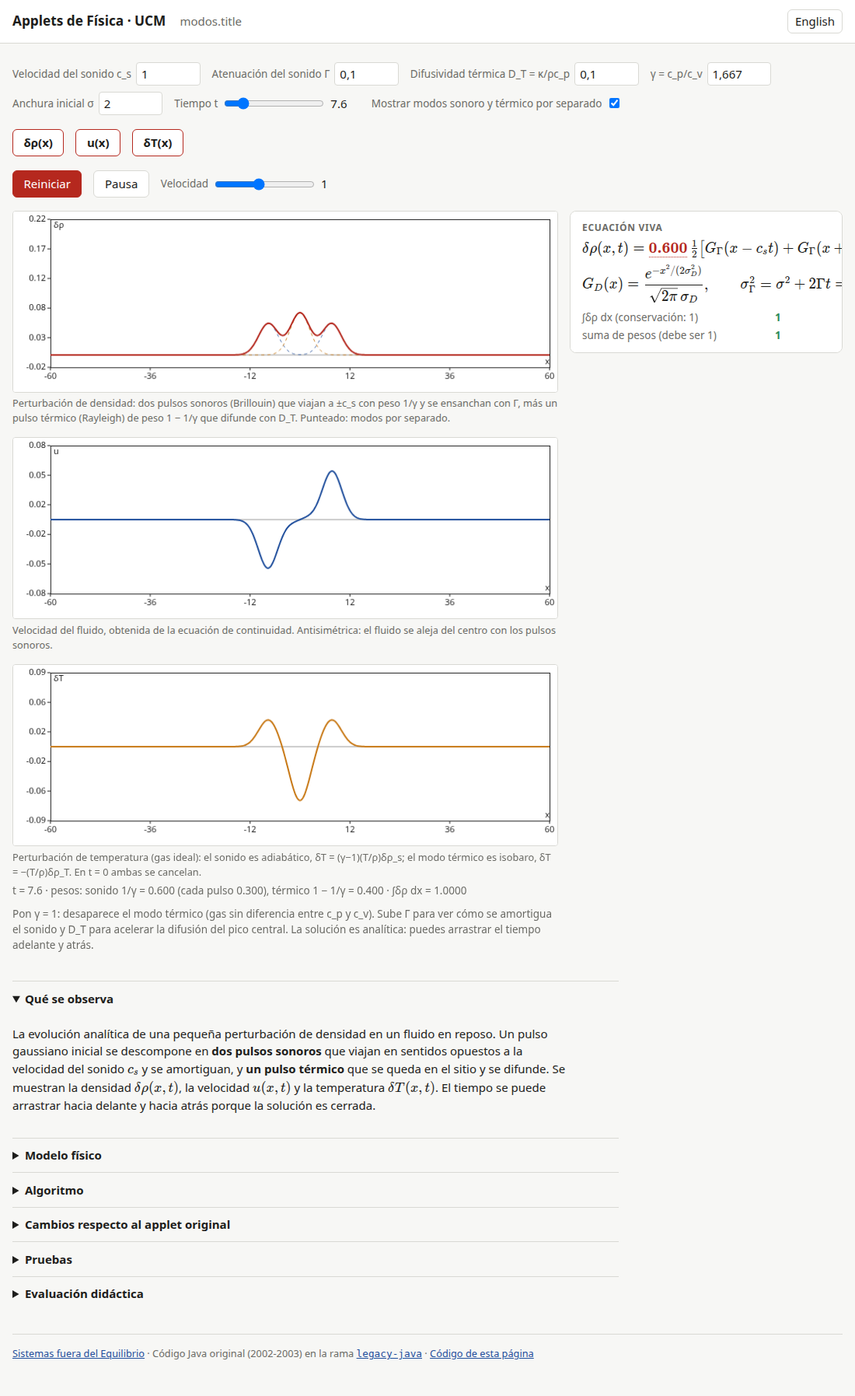
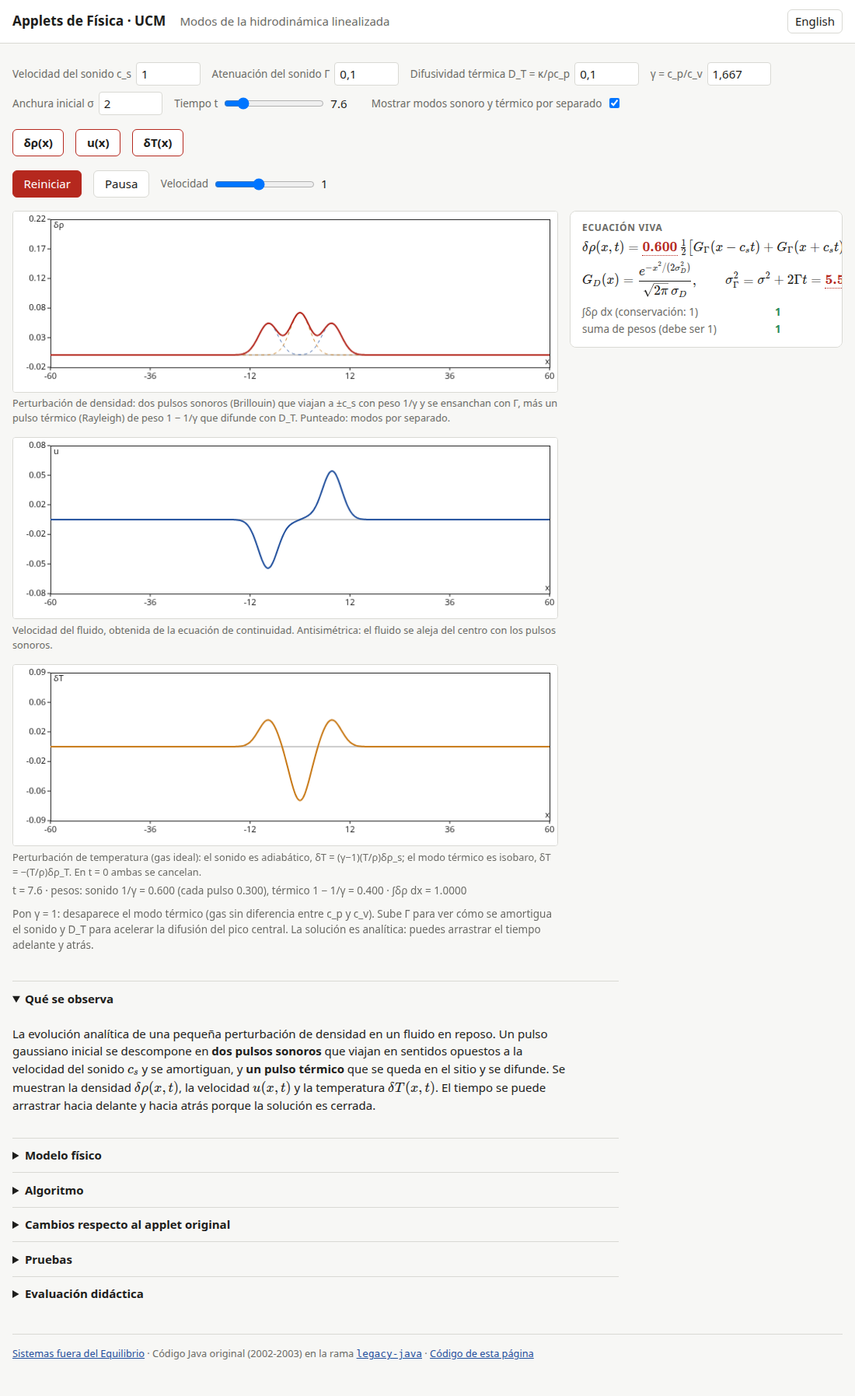
feat: ondas experiment combining FHP simulation (with linear acoustic prediction overlaid, Bessel-based Hankel integral) and linearized-hydrodynamics theory view

Changed region(s): [[0.68, 0.156, 0.9891, 0.2496], [0.2164, 0.0, 0.3709, 0.0312], [0.4018, 0.0, 0.4327, 0.0312]]

diff --git a/applets/onda-lgca/applet.js b/applets/onda-lgca/applet.js
@@ -14,7 +14,7 @@ i18n.register({
   es: {
     'onda.f': 'Densidad por canal f (0–1)', 'onda.radius': 'Radio del hueco', 'onda.size': 'Red (nodos por lado)',
     'onda.profile': 'Perfil', 'onda.profile.radial': 'Radial ⟨n⟩(r) desde el centro', 'onda.profile.strip': 'Franja horizontal ⟨n⟩(x)',
-    'onda.avg': 'Promediar el perfil en el tiempo',
+    'onda.avg': 'Promediar el perfil en el tiempo', 'onda.theory': 'Predicción lineal (acústica) superpuesta',
     'onda.smooth': 'Suavizado', 'onda.smooth.1': 'ninguno (nodo a nodo)', 'onda.smooth.2': 'cajas 2×2', 'onda.smooth.4': 'cajas 4×4',
     'onda.cap.lattice': 'Red hexagonal de {n}×{n} nodos; el gris indica la ocupación de cada nodo (0 a 7 partículas). El círculo rojo es el hueco inicial; el azul, la posición esperada del frente, r₀ + c_s t.',
     'onda.cap.profile': 'Ocupación media por nodo. La onda de rarefacción (mínimo) se aleja del centro a la velocidad del sonido de la red, c_s = √(3/7) ≈ 0.655 nodos/paso.',
@@ -22,11 +22,12 @@ i18n.register({
     'onda.hint': 'La red es periódica: pasado t ≈ L/(2c_s) la onda da la vuelta e interfiere consigo misma. Reinicia para repetir. La velocidad del sonido no depende de la densidad; compruébalo cambiando f.',
     'onda.eq.cs': 'velocidad del sonido de la red FHP con partícula en reposo', 'onda.eq.rf': 'posición teórica del frente', 'onda.eq.rmin': 'posición medida del mínimo del perfil radial',
     'onda.ind.err': 'error relativo del frente', 'onda.ind.rho': '⟨n⟩ (conservación: 7f)',
+    'onda.eq.nu': 'viscosidad cinemática FHP-III', 'onda.eq.Gamma': 'coeficiente de atenuación del sonido', 'onda.eq.cap.theory': 'Azul grueso: perfil radial predicho por la teoría lineal, δn(k,t) = δn(k,0) cos(c_s k t) e^{−Γk²t}, para el mismo hueco.',
   },
   en: {
     'onda.f': 'Density per channel f (0–1)', 'onda.radius': 'Hole radius', 'onda.size': 'Lattice (nodes per side)',
     'onda.profile': 'Profile', 'onda.profile.radial': 'Radial ⟨n⟩(r) from the centre', 'onda.profile.strip': 'Horizontal strip ⟨n⟩(x)',
-    'onda.avg': 'Time-average the profile',
+    'onda.avg': 'Time-average the profile', 'onda.theory': 'Overlay the linear (acoustic) prediction',
     'onda.smooth': 'Smoothing', 'onda.smooth.1': 'none (node by node)', 'onda.smooth.2': '2×2 boxes', 'onda.smooth.4': '4×4 boxes',
     'onda.cap.lattice': 'Hexagonal lattice of {n}×{n} nodes; grey level is the occupation of each node (0 to 7 particles). Red circle: initial hole; blue: expected front position r₀ + c_s t.',
     'onda.cap.profile': 'Mean occupation per node. The rarefaction wave (minimum) moves away from the centre at the lattice sound speed c_s = √(3/7) ≈ 0.655 nodes/step.',
@@ -34,11 +35,12 @@ i18n.register({
     'onda.hint': 'The lattice is periodic: after t ≈ L/(2c_s) the wave wraps around and interferes with itself. Restart to repeat. The sound speed does not depend on density; check it by changing f.',
     'onda.eq.cs': 'sound speed of the FHP lattice with a rest particle', 'onda.eq.rf': 'theoretical front position', 'onda.eq.rmin': 'measured position of the radial-profile minimum',
     'onda.ind.err': 'relative front error', 'onda.ind.rho': '⟨n⟩ (conservation: 7f)',
+    'onda.eq.nu': 'FHP-III kinematic viscosity', 'onda.eq.Gamma': 'sound attenuation coefficient', 'onda.eq.cap.theory': 'Thick blue: radial profile predicted by linear theory, δn(k,t) = δn(k,0) cos(c_s k t) e^{−Γk²t}, for the same hole.',
   },
 });
 
-export function mount(root, { root: base = '../..' } = {}) {
-  const ui = appletSkeleton(root, { canvases: [{ id: 'lattice', caption: 'onda.cap.lattice' }, { id: 'profile', caption: 'onda.cap.profile' }], hintKey: 'onda.hint' });
+export function mount(root, { root: base = '../..', embedded = false } = {}) {
+  const ui = appletSkeleton(root, { canvases: [{ id: 'lattice', caption: 'onda.cap.lattice' }, { id: 'profile', caption: 'onda.cap.profile' }], hintKey: 'onda.hint', theory: !embedded });
   let state, img, off, accR = null, accS = null, nAcc = 0;
   const pF = numberField({ label: 'onda.f', value: 0.5, min: 0.02, max: 0.98, step: 0.05 });
   const pR = numberField({ label: 'onda.radius', value: 12, min: 2, max: 60, integer: true });
@@ -46,7 +48,8 @@ export function mount(root, { root: base = '../..' } = {}) {
   const pProf = select({ label: 'onda.profile', value: 'radial', options: [{ value: 'radial', label: 'onda.profile.radial' }, { value: 'strip', label: 'onda.profile.strip' }], onChange: () => { nAcc = 0; draw(); } });
   const pSmooth = select({ label: 'onda.smooth', value: '2', options: [{ value: '1', label: 'onda.smooth.1' }, { value: '2', label: 'onda.smooth.2' }, { value: '4', label: 'onda.smooth.4' }], onChange: () => draw() });
   const pAvg = checkbox({ label: 'onda.avg', checked: false, onChange: () => { nAcc = 0; draw(); } });
-  ui.params.append(pSize.el, pF.el, pR.el, pSmooth.el, pProf.el, pAvg.el);
+  const pTheory = checkbox({ label: 'onda.theory', checked: true, onChange: () => draw() });
+  ui.params.append(pSize.el, pF.el, pR.el, pSmooth.el, pProf.el, pAvg.el, pTheory.el);
 
   const latticeCanvas = ui.canvas.lattice;
   const lat = new Plot(latticeCanvas, { xmin: 0, xmax: 200, ymin: 0, ymax: 200 * H.S3 });
@@ -57,6 +60,7 @@ export function mount(root, { root: base = '../..' } = {}) {
     equations: [
       { tex: 'c_s = \\sqrt{\\tfrac{3}{7}} = \\htmlId{cs}{c_s}\\ \\text{nodos/paso}', slots: { cs: { label: 'onda.eq.cs' } } },
       { tex: 'r_f(t) = r_0 + c_s t = \\htmlId{rf}{r_f},\\qquad r_{\\min}^{\\rm med} = \\htmlId{rmin}{r_{\\min}}', slots: { rf: { label: 'onda.eq.rf' }, rmin: { label: 'onda.eq.rmin' } } },
+      { tex: '\\delta n(k,t) = \\delta n(k,0)\\,\\cos(c_s k t)\\,e^{-\\htmlId{Gamma}{\\Gamma} k^2 t},\\qquad \\nu(f) = \\htmlId{nu}{\\nu}', slots: { Gamma: { label: 'onda.eq.Gamma' }, nu: { label: 'onda.eq.nu' } } },
     ],
     indicators: [{ key: 'err', label: 'onda.ind.err', fmt: (v) => (Number.isNaN(v) ? '—' : `${(100 * v).toFixed(1)} %`) }, { key: 'rho', label: 'onda.ind.rho' }],
   });
@@ -68,7 +72,8 @@ export function mount(root, { root: base = '../..' } = {}) {
     off = new OffscreenCanvas(n, n); img = off.getContext('2d').createImageData(n, n);
     accR = null; accS = null; nAcc = 0;
     const cap = root.querySelector('[data-i18n="onda.cap.lattice"]'); if (cap) cap.textContent = i18n.t('onda.cap.lattice', { n });
-    eq.update({ cs: O.SOUND_SPEED });
+    const tr = O.transportFHP(state.f);
+    eq.update({ cs: O.SOUND_SPEED, Gamma: tr.Gamma, nu: tr.nu });
   }
   function step() { O.step(state); }
 
@@ -123,6 +128,11 @@ export function mount(root, { root: base = '../..' } = {}) {
     const rf = state.holeRadius + O.SOUND_SPEED * state.t;
     if (radial) { prof.color('rgba(31,78,156,0.6)'); prof.line(rf, 0, rf, 7); }
     else { const c = state.cx; prof.color('rgba(31,78,156,0.6)'); for (const sgn of [-1, 1]) { const x = c + sgn * rf; prof.line(x, 0, x, 7); } }
+    if (radial && pTheory.get()) {
+      const rr = Float64Array.from({ length: 80 }, (_, i) => (i + 0.5) * xs[xs.length - 1] / 80);
+      const th = O.linearPrediction(state, rr, state.t);
+      prof.color('#1f4e9c'); prof.lineWidth(2.5); prof.polyline(Array.from(rr), Array.from(th, (v) => Math.max(0, Math.min(7, v)))); prof.lineWidth(1);
+    }
     prof.color('#b5281e'); prof.lineWidth(1.5);
     const vx = [], vy = []; for (let i = 0; i < xs.length; i++) if (!Number.isNaN(ys[i])) { vx.push(xs[i]); vy.push(ys[i]); }
     if (vx.length > 1) prof.polyline(vx, vy); prof.lineWidth(1);

diff --git a/applets/ondas/applet.js b/applets/ondas/applet.js
@@ -1,0 +1,40 @@
+// Sound waves in a fluid — experiment 4. Two views: the FHP lattice-gas
+// simulation (with the linear acoustic prediction overlaid) and the analytic
+// linearized-hydrodynamics modes of a real (thermal) fluid.
+import { i18n } from '../../lib/i18n.js';
+import { select } from '../../lib/ui.js';
+import { mountSections } from '../../lib/page.js';
+import * as Onda from '../onda-lgca/applet.js';
+import * as Modos from '../modos-lineales/applet.js';
+
+export const meta = { slug: 'ondas', titleKey: 'ondas.title', legacyPath: 'PERFILDENSIDAD/EJERC23.JAVA', number: 4 };
+
+i18n.register({
+  es: {
+    'ondas.view': 'Vista', 'ondas.view.fhp': 'A · Simulación: gas reticular FHP', 'ondas.view.lineal': 'B · Teoría: modos de la hidrodinámica linealizada',
+    'ondas.intro.fhp': 'Un hueco de densidad en un gas reticular emite una onda sonora cilíndrica. Sobre el perfil radial medido (rojo) se dibuja la predicción de la teoría lineal (azul) con la velocidad del sonido y la atenuación del propio modelo FHP.',
+    'ondas.intro.lineal': 'En un fluido real la perturbación se reparte entre dos modos sonoros (Brillouin), que viajan a ±c_s, y un modo térmico (Rayleigh) que difunde sin propagarse. El gas reticular FHP es atérmico: solo tiene los modos sonoros.',
+  },
+  en: {
+    'ondas.view': 'View', 'ondas.view.fhp': 'A · Simulation: FHP lattice gas', 'ondas.view.lineal': 'B · Theory: linearized hydrodynamics modes',
+    'ondas.intro.fhp': 'A density hole in a lattice gas emits a cylindrical sound wave. The linear-theory prediction (blue), with the sound speed and attenuation of the FHP model itself, is drawn over the measured radial profile (red).',
+    'ondas.intro.lineal': 'In a real fluid the perturbation splits into two sound (Brillouin) modes travelling at ±c_s and a thermal (Rayleigh) mode that diffuses without propagating. The FHP lattice gas is athermal: it only has the sound modes.',
+  },
+});
+
+export function mount(root, { root: base = '../..' } = {}) {
+  root.innerHTML = '<div class="params view-select"></div><p class="hint view-intro"></p><div class="view-host"></div><div class="theory-sections"></div>';
+  const host = root.querySelector('.view-host'), intro = root.querySelector('.view-intro');
+  const pView = select({ label: 'ondas.view', value: 'fhp', options: ['fhp', 'lineal'].map((v) => ({ value: v, label: `ondas.view.${v}` })), onChange: (v) => show(v) });
+  root.querySelector('.view-select').append(pView.el);
+  let handle = null;
+  function show(v) {
+    handle?.destroy?.(); host.replaceChildren();
+    intro.textContent = i18n.t(`ondas.intro.${v}`);
+    handle = (v === 'fhp' ? Onda : Modos).mount(host, { root: base, embedded: true });
+    i18n.apply(host); window.dispatchEvent(new Event('resize'));
+  }
+  show('fhp');
+  mountSections(root.querySelector('.theory-sections'), meta.slug, base);
+  return { get loop() { return handle?.loop; }, destroy() { handle?.destroy?.(); root.replaceChildren(); } };
+}

diff --git a/tests/ondas.test.js b/tests/ondas.test.js
@@ -1,0 +1,40 @@
+import { test } from 'node:test';
+import assert from 'node:assert/strict';
+import { mulberry32 } from '../lib/rng.js';
+import { besselJ0, besselJ1 } from '../lib/bessel.js';
+import * as O from '../applets/onda-lgca/model.js';
+
+test('Bessel J0, J1 against tabulated values', () => {
+  assert.ok(Math.abs(besselJ0(0) - 1) < 1e-8);
+  assert.ok(Math.abs(besselJ0(2.404825557695773)) < 1e-7, 'first zero of J0');
+  assert.ok(Math.abs(besselJ1(1) - 0.4400505857) < 1e-7);
+  assert.ok(Math.abs(besselJ0(10) - (-0.2459357645)) < 1e-7);
+  assert.ok(Math.abs(besselJ1(10) - 0.0434727462) < 1e-7);
+});
+
+test('linear prediction reproduces the hole at t = 0 and a front moving at c_s', () => {
+  const s = O.create({ nx: 120, ny: 120, f: 0.3, holeRadius: 10, rng: mulberry32(1) });
+  const r = Float64Array.from({ length: 60 }, (_, i) => i + 0.5);
+  const p0 = O.linearPrediction(s, r, 0);
+  const n0 = 7 * s.f;
+  assert.ok(Math.abs(p0[4]) < 0.15 * n0, `inside the hole ≈ 0: ${p0[4]}`);            // r = 4.5
+  assert.ok(Math.abs(p0[30] - n0) < 0.1 * n0, `far outside ≈ n0: ${p0[30]}`);         // r = 30.5
+  const tA = 15, tB = 30;
+  const rA = O.profileMinimum(r, O.linearPrediction(s, r, tA), 6), rB = O.profileMinimum(r, O.linearPrediction(s, r, tB), 6);
+  const speed = (rB - rA) / (tB - tA);
+  assert.ok(Math.abs(speed - O.SOUND_SPEED) < 0.15, `front speed ${speed} vs ${O.SOUND_SPEED}`);
+});
+
+test('simulated front advances at the sound speed within 15 %', () => {
+  const s = O.create({ nx: 160, ny: 160, f: 0.3, holeRadius: 10, rng: mulberry32(2) });
+  const pos = [];
+  for (let t = 0; t <= 60; t++) {
+    if (t >= 20 && t % 10 === 0) pos.push([t, O.frontRadius(O.radialProfile(s, 1.5), 6)]);
+    O.step(s);
+  }
+  // least-squares slope
+  const n = pos.length; let sx = 0, sy = 0, sxx = 0, sxy = 0;
+  for (const [x, y] of pos) { sx += x; sy += y; sxx += x * x; sxy += x * y; }
+  const slope = (n * sxy - sx * sy) / (n * sxx - sx * sx);
+  assert.ok(Math.abs(slope / O.SOUND_SPEED - 1) < 0.15, `slope ${slope} (c_s ${O.SOUND_SPEED}) from ${JSON.stringify(pos)}`);
+});

diff --git a/applets/onda-lgca/model.js b/applets/onda-lgca/model.js
@@ -2,6 +2,7 @@
 // density) is carved in a uniform gas; the rarefaction front propagates
 // outward at the lattice sound speed c_s = sqrt(3/7).
 import * as H from '../_fhp/fhp.js';
+import { besselJ0, besselJ1 } from '../../lib/bessel.js';
 
 export function create({ nx = 200, ny = 200, f = 0.7, holeRadius = 12, rng = Math.random } = {}) {
   const L = H.createLattice(nx, ny);
@@ -56,3 +57,33 @@ export function frontRadius(profile, rmin = 1) {
 }
 
 export const SOUND_SPEED = H.SOUND_SPEED;
+
+export const transportFHP = H.transportFHP;
+
+// Linear (acoustic) prediction for the cylindrical hole. The initial perturbation
+// δn(r,0) = −n0 for r < R has Hankel transform F(k) = −n0·2πR J1(kR)/k; each mode
+// oscillates as cos(c_s k t) and damps as exp(−Γ k² t), so
+//   δn(r,t) = −n0 R ∫₀^∞ J1(kR) J0(kr) cos(c_s k t) e^{−Γ k² t} dk.
+// Returns the predicted occupation n0 + δn on the radii `r` (n0 = 7f). Linear theory
+// of an O(1) perturbation: shape and front position are meaningful, amplitude only roughly.
+export function linearPrediction(s, r, t, { Gamma = transportFHP(s.f).Gamma, cs = SOUND_SPEED, nk = 600 } = {}) {
+  const R = s.holeRadius, n0 = 7 * s.f;
+  const kmax = 40 / R, dk = kmax / nk;
+  const G = Math.max(Gamma, 0.02); // small floor smooths the truncation ripple at t = 0
+  const out = new Float64Array(r.length);
+  const w = new Float64Array(nk + 1);
+  for (let j = 0; j <= nk; j++) { const k = j * dk; w[j] = (j === 0 || j === nk ? 0.5 : 1) * dk * besselJ1(k * R) * Math.cos(cs * k * t) * Math.exp(-G * k * k * t); }
+  for (let i = 0; i < r.length; i++) {
+    let acc = 0;
+    for (let j = 1; j <= nk; j++) acc += w[j] * besselJ0(j * dk * r[i]);
+    out[i] = n0 - n0 * R * acc;
+  }
+  return out;
+}
+
+// Position of the minimum of a predicted/measured profile beyond rmin.
+export function profileMinimum(r, rho, rmin = 1) {
+  let best = -1, bv = Infinity;
+  for (let i = 0; i < r.length; i++) if (r[i] >= rmin && !Number.isNaN(rho[i]) && rho[i] < bv) { bv = rho[i]; best = i; }
+  return best < 0 ? NaN : r[best];
+}

diff --git a/lib/registry.js b/lib/registry.js
@@ -11,19 +11,18 @@ export const REGISTRY = [
     title: { es: 'Irreversibilidad y fluctuaciones en equilibrio', en: 'Irreversibility and fluctuations in equilibrium' } },
   { slug: 'conductividad', number: 3, titleKey: 'cond.title', path: 'applets/conductividad/applet.js',
     title: { es: 'Conductividad térmica', en: 'Thermal conductivity' } },
-  { slug: 'onda-lgca', number: 4, titleKey: 'onda.title', path: 'applets/onda-lgca/applet.js',
+  { slug: 'ondas', number: 4, titleKey: 'ondas.title', path: 'applets/ondas/applet.js',
     title: { es: 'Ondas sonoras en un fluido', en: 'Sound waves in a fluid' } },
   { slug: 'maxwell', extra: true, titleKey: 'maxwell.title', path: 'applets/maxwell/applet.js',
     title: { es: 'Discos duros y distribución de Maxwell', en: 'Hard disks and the Maxwell distribution' } },
   { slug: 'pila-arena', extra: true, titleKey: 'pila.title', path: 'applets/pila-arena/applet.js',
     title: { es: 'Pila de arena y criticalidad autoorganizada', en: 'Sandpile and self-organized criticality' } },
-  { slug: 'modos-lineales', extra: true, titleKey: 'modos.title', path: 'applets/modos-lineales/applet.js',
-    title: { es: 'Modos de la hidrodinámica linealizada', en: 'Linearized hydrodynamics modes' } },
   { slug: 'von-karman', extra: true, titleKey: 'vk.title', path: 'applets/von-karman/applet.js',
     title: { es: 'Gas reticular con obstáculo: calle de Von Kármán', en: 'Lattice gas with an obstacle: Von Kármán street' } },
 ];
 
-const es = {}, en = {};
+const es = { 'onda.title': 'Gas reticular FHP: onda sonora y perfil de densidad', 'modos.title': 'Modos de la hidrodinámica linealizada' };
+const en = { 'onda.title': 'FHP lattice gas: sound wave and density profile', 'modos.title': 'Linearized hydrodynamics modes' };
 for (const r of REGISTRY) { es[r.titleKey] = r.title.es; en[r.titleKey] = r.title.en; }
 i18n.register({ es, en });
 

diff --git a/lib/bessel.js b/lib/bessel.js
@@ -1,0 +1,28 @@
+// Bessel functions J0, J1 (Numerical Recipes rational approximations, |err| < 1e-8).
+export function besselJ0(x) {
+  const ax = Math.abs(x);
+  if (ax < 8) {
+    const y = x * x;
+    const a = 57568490574.0 + y * (-13362590354.0 + y * (651619640.7 + y * (-11214424.18 + y * (77392.33017 + y * (-184.9052456)))));
+    const b = 57568490411.0 + y * (1029532985.0 + y * (9494680.718 + y * (59272.64853 + y * (267.8532712 + y))));
+    return a / b;
+  }
+  const z = 8 / ax, y = z * z, xx = ax - 0.785398164;
+  const a = 1 + y * (-0.1098628627e-2 + y * (0.2734510407e-4 + y * (-0.2073370639e-5 + y * 0.2093887211e-6)));
+  const b = -0.1562499995e-1 + y * (0.1430488765e-3 + y * (-0.6911147651e-5 + y * (0.7621095161e-6 - y * 0.934935152e-7)));
+  return Math.sqrt(0.636619772 / ax) * (Math.cos(xx) * a - z * Math.sin(xx) * b);
+}
+export function besselJ1(x) {
+  const ax = Math.abs(x);
+  if (ax < 8) {
+    const y = x * x;
+    const a = x * (72362614232.0 + y * (-7895059235.0 + y * (242396853.1 + y * (-2972611.439 + y * (15704.48260 + y * (-30.16036606))))));
+    const b = 144725228442.0 + y * (2300535178.0 + y * (18583304.74 + y * (99447.43394 + y * (376.9991397 + y))));
+    return a / b;
+  }
+  const z = 8 / ax, y = z * z, xx = ax - 2.356194491;
+  const a = 1 + y * (0.183105e-2 + y * (-0.3516396496e-4 + y * (0.2457520174e-5 + y * (-0.240337019e-6))));
+  const b = 0.04687499995 + y * (-0.2002690873e-3 + y * (0.8449199096e-5 + y * (-0.88228987e-6 + y * 0.105787412e-6)));
+  const ans = Math.sqrt(0.636619772 / ax) * (Math.cos(xx) * a - z * Math.sin(xx) * b);
+  return x < 0 ? -ans : ans;
+}

diff --git a/applets/_fhp/fhp.js b/applets/_fhp/fhp.js
@@ -134,3 +134,15 @@ export function diskMask(L, cx, cy, r) {
 
 // Sound speed of the 7-state model in lattice units per step: c_s² = (6/7)(1/2).
 export const SOUND_SPEED = Math.sqrt(3 / 7);
+
+// Transport coefficients of the FHP-III model (rest particle, all collisions),
+// in lattice units (Frisch et al. 1987; Grosfils, Boon, Brito, Ernst 1993).
+// f: mean occupation per channel. g(f): non-Galilean factor multiplying the
+// advective term; nu(f): kinematic shear viscosity (Boltzmann approximation,
+// including the propagation correction -1/8).
+export function galileanFactor(f) { return (7 / 12) * (1 - 2 * f) / (1 - f); }
+export function viscosityFHP3(f) { return (1 / 28) / (f * (1 - f) ** 3 * (1 - 8 * f * (1 - f) / 7)) - 1 / 8; }
+// Sound attenuation coefficient for an athermal 2D lattice gas: Gamma = (nu + zeta)/2 with the
+// bulk viscosity zeta of FHP-III approximated by nu (the exact value is of the same order).
+export function soundAttenuation(f) { return viscosityFHP3(f); }
+export function transportFHP(f) { return { cs: SOUND_SPEED, nu: viscosityFHP3(f), Gamma: soundAttenuation(f), g: galileanFactor(f) }; }

diff --git a/applets/modos-lineales/applet.js b/applets/modos-lineales/applet.js
@@ -36,10 +36,10 @@ i18n.register({
 
 const XMAX = 60, NX = 601, TMAX = 50;
 
-export function mount(root, { root: base = '../..' } = {}) {
+export function mount(root, { root: base = '../..', embedded = false } = {}) {
   const ui = appletSkeleton(root, {
     canvases: [{ id: 'rho', caption: 'modos.cap.rho', cls: 'wide' }, { id: 'u', caption: 'modos.cap.u', cls: 'wide' }, { id: 'T', caption: 'modos.cap.T', cls: 'wide' }],
-    hintKey: 'modos.hint',
+    hintKey: 'modos.hint', theory: !embedded,
   });
   root.querySelector('.canvases').classList.add('stack');
   const xs = M.linspace(-XMAX, XMAX, NX);

diff --git a/applets/von-karman/model.js b/applets/von-karman/model.js
@@ -83,6 +83,6 @@ export function meanAlongVelocity(s, iy0, iy1) {
 }
 
 // Reference transport coefficients of 7-bit FHP models (Frisch et al. 1987), d = f.
-export function galileanFactor(f) { return (7 / 12) * (1 - 2 * f) / (1 - f); }
-export function viscosityFHP3(f) { return (1 / 28) / (f * (1 - f) ** 3 * (1 - 8 * f * (1 - f) / 7)) - 1 / 8; }
+export const galileanFactor = H.galileanFactor;
+export const viscosityFHP3 = H.viscosityFHP3;
 export function reynolds(s) { const nu = viscosityFHP3(s.f); return nu > 0 ? galileanFactor(s.f) * s.u * s.plateLen / nu : NaN; }

diff --git a/applets/ondas/index.html b/applets/ondas/index.html
@@ -1,0 +1,18 @@
+<!doctype html>
+<html lang="es">
+<head>
+<meta charset="utf-8">
+<meta name="viewport" content="width=device-width, initial-scale=1">
+<title>Ondas sonoras en un fluido</title>
+<link rel="stylesheet" href="../../assets/style.css">
+<link rel="icon" href="data:,">
+</head>
+<body>
+<header class="site"></header>
+<main>
+  <div id="app" class="applet"></div>
+  <footer class="site"></footer>
+</main>
+<script type="module" src="./view.js"></script>
+</body>
+</html>

diff --git a/applets/ondas/view.js b/applets/ondas/view.js
@@ -1,0 +1,7 @@
+// Standalone page: header/footer chrome plus the mountable applet.
+import { setupPage } from '../../lib/page.js';
+import '../../lib/registry.js'; // registers titles
+import { mount, meta } from './applet.js';
+
+setupPage({ slug: meta.slug, titleKey: meta.titleKey, legacyPath: meta.legacyPath, bare: true });
+mount(document.getElementById('app'), { root: '../..' });

diff --git a/docs/es/ondas.md b/docs/es/ondas.md
@@ -1,0 +1,40 @@
+# Ondas sonoras en un fluido
+
+## Qué se observa
+
+Dos vistas. **A**: un gas reticular FHP con un hueco circular de densidad en el centro. La materia de alrededor se precipita hacia el hueco, lo sobrepasa y crea una corona de rarefacción que se aleja a la velocidad del sonido de la red, $c_s = \sqrt{3/7} \approx 0.655$ nodos por paso. Sobre el perfil radial medido se dibuja la predicción de la teoría acústica lineal para ese mismo hueco. **B**: la solución analítica de la hidrodinámica linealizada para una perturbación de densidad en un fluido real, con sus dos pulsos sonoros y su pico térmico. Esta es la física de las fichas `onda-lgca` y `modos-lineales`, reunida en el experimento 4 del curso original.
+
+## Modelo físico
+
+Linealizando las ecuaciones de Navier–Stokes alrededor del reposo y pasando a Fourier, la densidad obedece
+
+$$n(k,t) = \Big[\tfrac{c_v}{c_p}\cos(c_s k t)\,e^{-\Gamma_s k^2 t} + \tfrac{c_p - c_v}{c_p}\,e^{-\kappa k^2 t/(n c_p)}\Big]\,n(k,0),$$
+
+dos modos sonoros amortiguados (peso $1/\gamma$) y un modo térmico difusivo (peso $1 - 1/\gamma$). Son los pesos de Landau–Placzek. En la vista B se recorren en el espacio real: $\delta\rho$, la velocidad $u$ (por continuidad) y $\delta T$, que en $t = 0$ se anula porque el sonido es adiabático y el modo térmico isobaro.
+
+El gas reticular FHP conserva masa y momento pero no tiene energía independiente (todas las partículas móviles tienen la misma velocidad): es **atérmico**. No hay modo térmico, $c_p = c_v$, y la ecuación anterior se reduce a $n(k,t) = \cos(c_s k t)\,e^{-\Gamma k^2 t}\,n(k,0)$. Para el hueco de radio $R$ en un gas de ocupación $n_0 = 7f$, la transformada de Hankel de la condición inicial es $-n_0\,2\pi R\,J_1(kR)/k$ y
+
+$$\delta n(r,t) = -n_0 R \int_0^\infty J_1(kR)\,J_0(kr)\,\cos(c_s k t)\,e^{-\Gamma k^2 t}\,dk,$$
+
+que es la curva azul. La velocidad del sonido del FHP-III es exacta, $c_s^2 = 3/7$; la atenuación $\Gamma$ se toma igual a la viscosidad cinemática $\nu(f)$ de Boltzmann, que es su orden de magnitud correcto (la viscosidad de volumen del modelo con partícula en reposo es comparable a $\nu$). El hueco es una perturbación del 100 %, así que la teoría lineal acierta la posición y la forma del frente pero solo aproxima su amplitud; la discrepancia es una medida del efecto no lineal.
+
+## Algoritmo
+
+Vista A: `applets/onda-lgca` (autómata FHP con partícula en reposo, perfil radial por anillos, frente como mínimo del perfil). La predicción lineal se integra numéricamente en $k$ con funciones de Bessel racionales (`lib/bessel.js`), 600 nodos hasta $k_{\max} = 40/R$. Vista B: `applets/modos-lineales` (solución analítica, gaussianas de varianza $\sigma^2 + 2\Gamma t$ y $\sigma^2 + 2 D_T t$).
+
+## Cambios respecto al applet original
+
+| Original (`ejerc2`/`ejerc23`, 2003) | Aquí | Motivo |
+|---|---|---|
+| Densidad en un "cuadradito rojo" fijo frente al tiempo | Perfil radial completo y posición del frente frente a $c_s t$ | La magnitud que la teoría predice es el perfil |
+| Sin comparación cuantitativa con la ecuación (1) del curso | Predicción lineal superpuesta, $c_s$, $\nu$ y $\Gamma$ en el panel | Ver la ecuación y la simulación a la vez |
+| Teoría con modo térmico aplicada a un modelo atérmico | Se explica la diferencia y la vista B muestra el modo térmico donde sí existe | Coherencia física |
+| Hueco elíptico (condición $\tfrac32(i_y - y_c)^2$) | Disco en coordenadas físicas | Corrección de la fase 1 |
+
+## Pruebas
+
+`tests/ondas.test.js`: $J_0$, $J_1$ frente a valores tabulados; la predicción lineal reproduce el hueco en $t = 0$ y su mínimo avanza a $c_s$ entre $t = 15$ y $t = 30$; el frente medido en la simulación ($N = 160^2$, $f = 0.3$) avanza a $c_s$ dentro del 15 %. Además `tests/onda.test.js` y `tests/modos.test.js` de la fase 1.
+
+## Evaluación didáctica
+
+Une el "experimento numérico" con la teoría que lo describe en la misma gráfica, y hace explícita una limitación del modelo (atérmico) que suele pasar desapercibida. La vista B permite jugar con $\gamma$, $\Gamma$ y $D_T$ y ver los pesos de Landau–Placzek. Fuente: curso *Experimentos Interactivos* (UCM), experimento 4 de Sistemas fuera del Equilibrio, R. Brito; applet FHP de Mario Encinar (TAD 2003).
